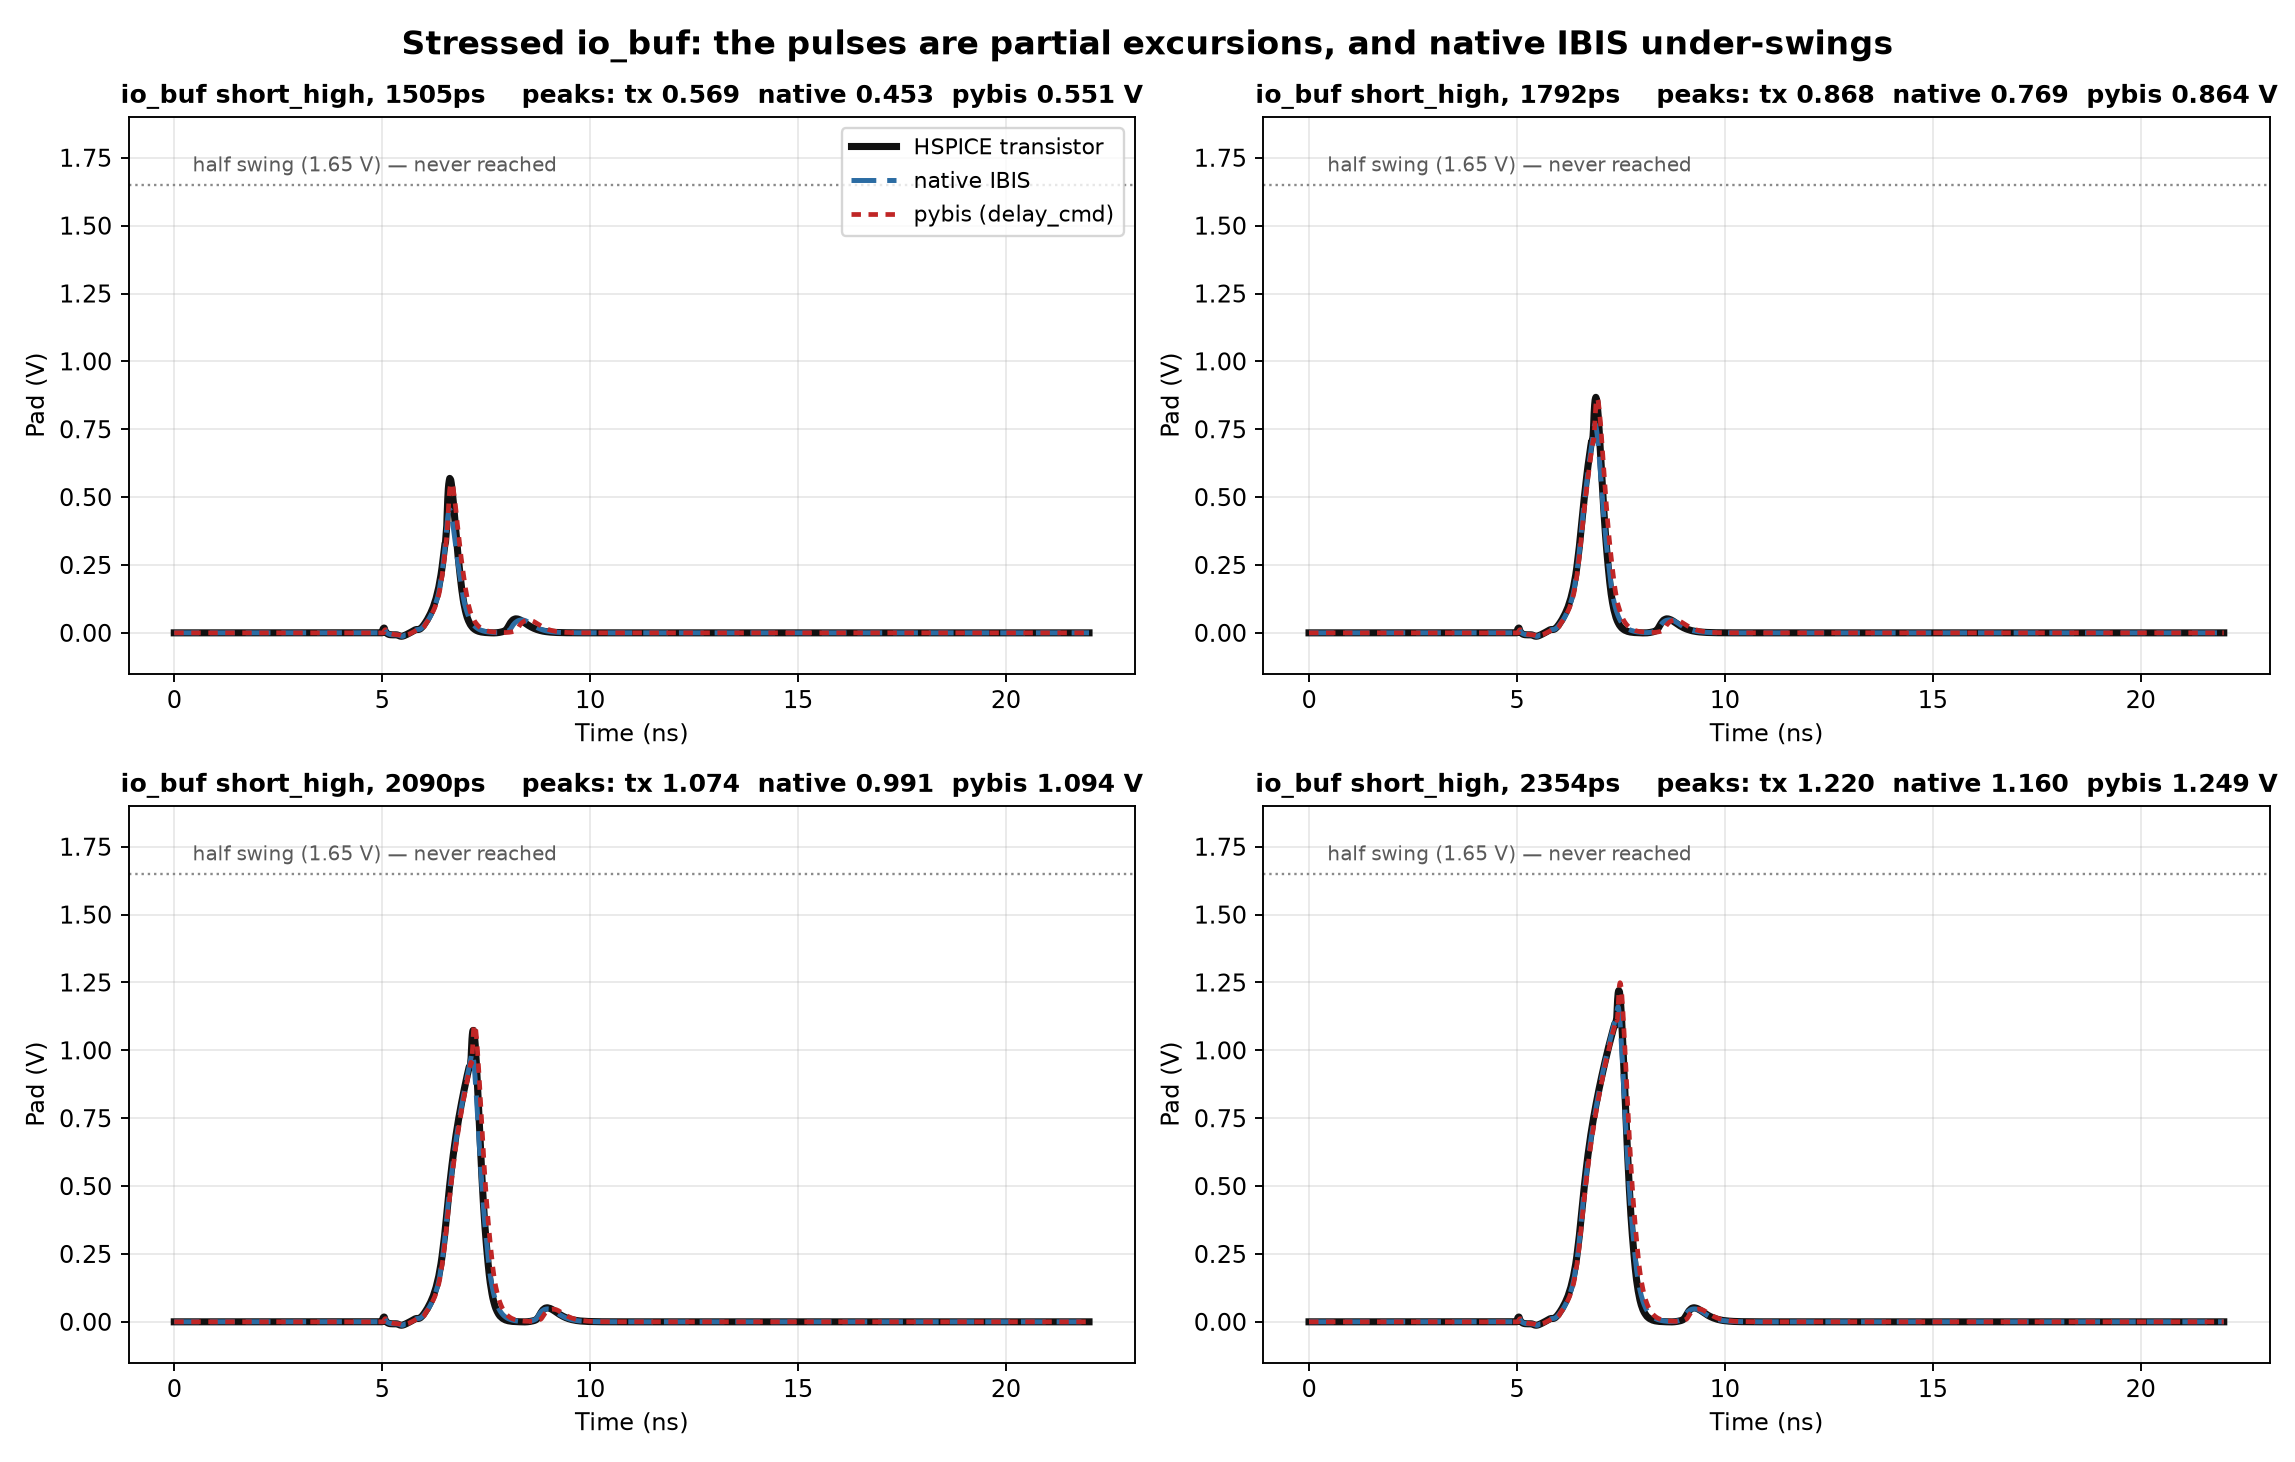
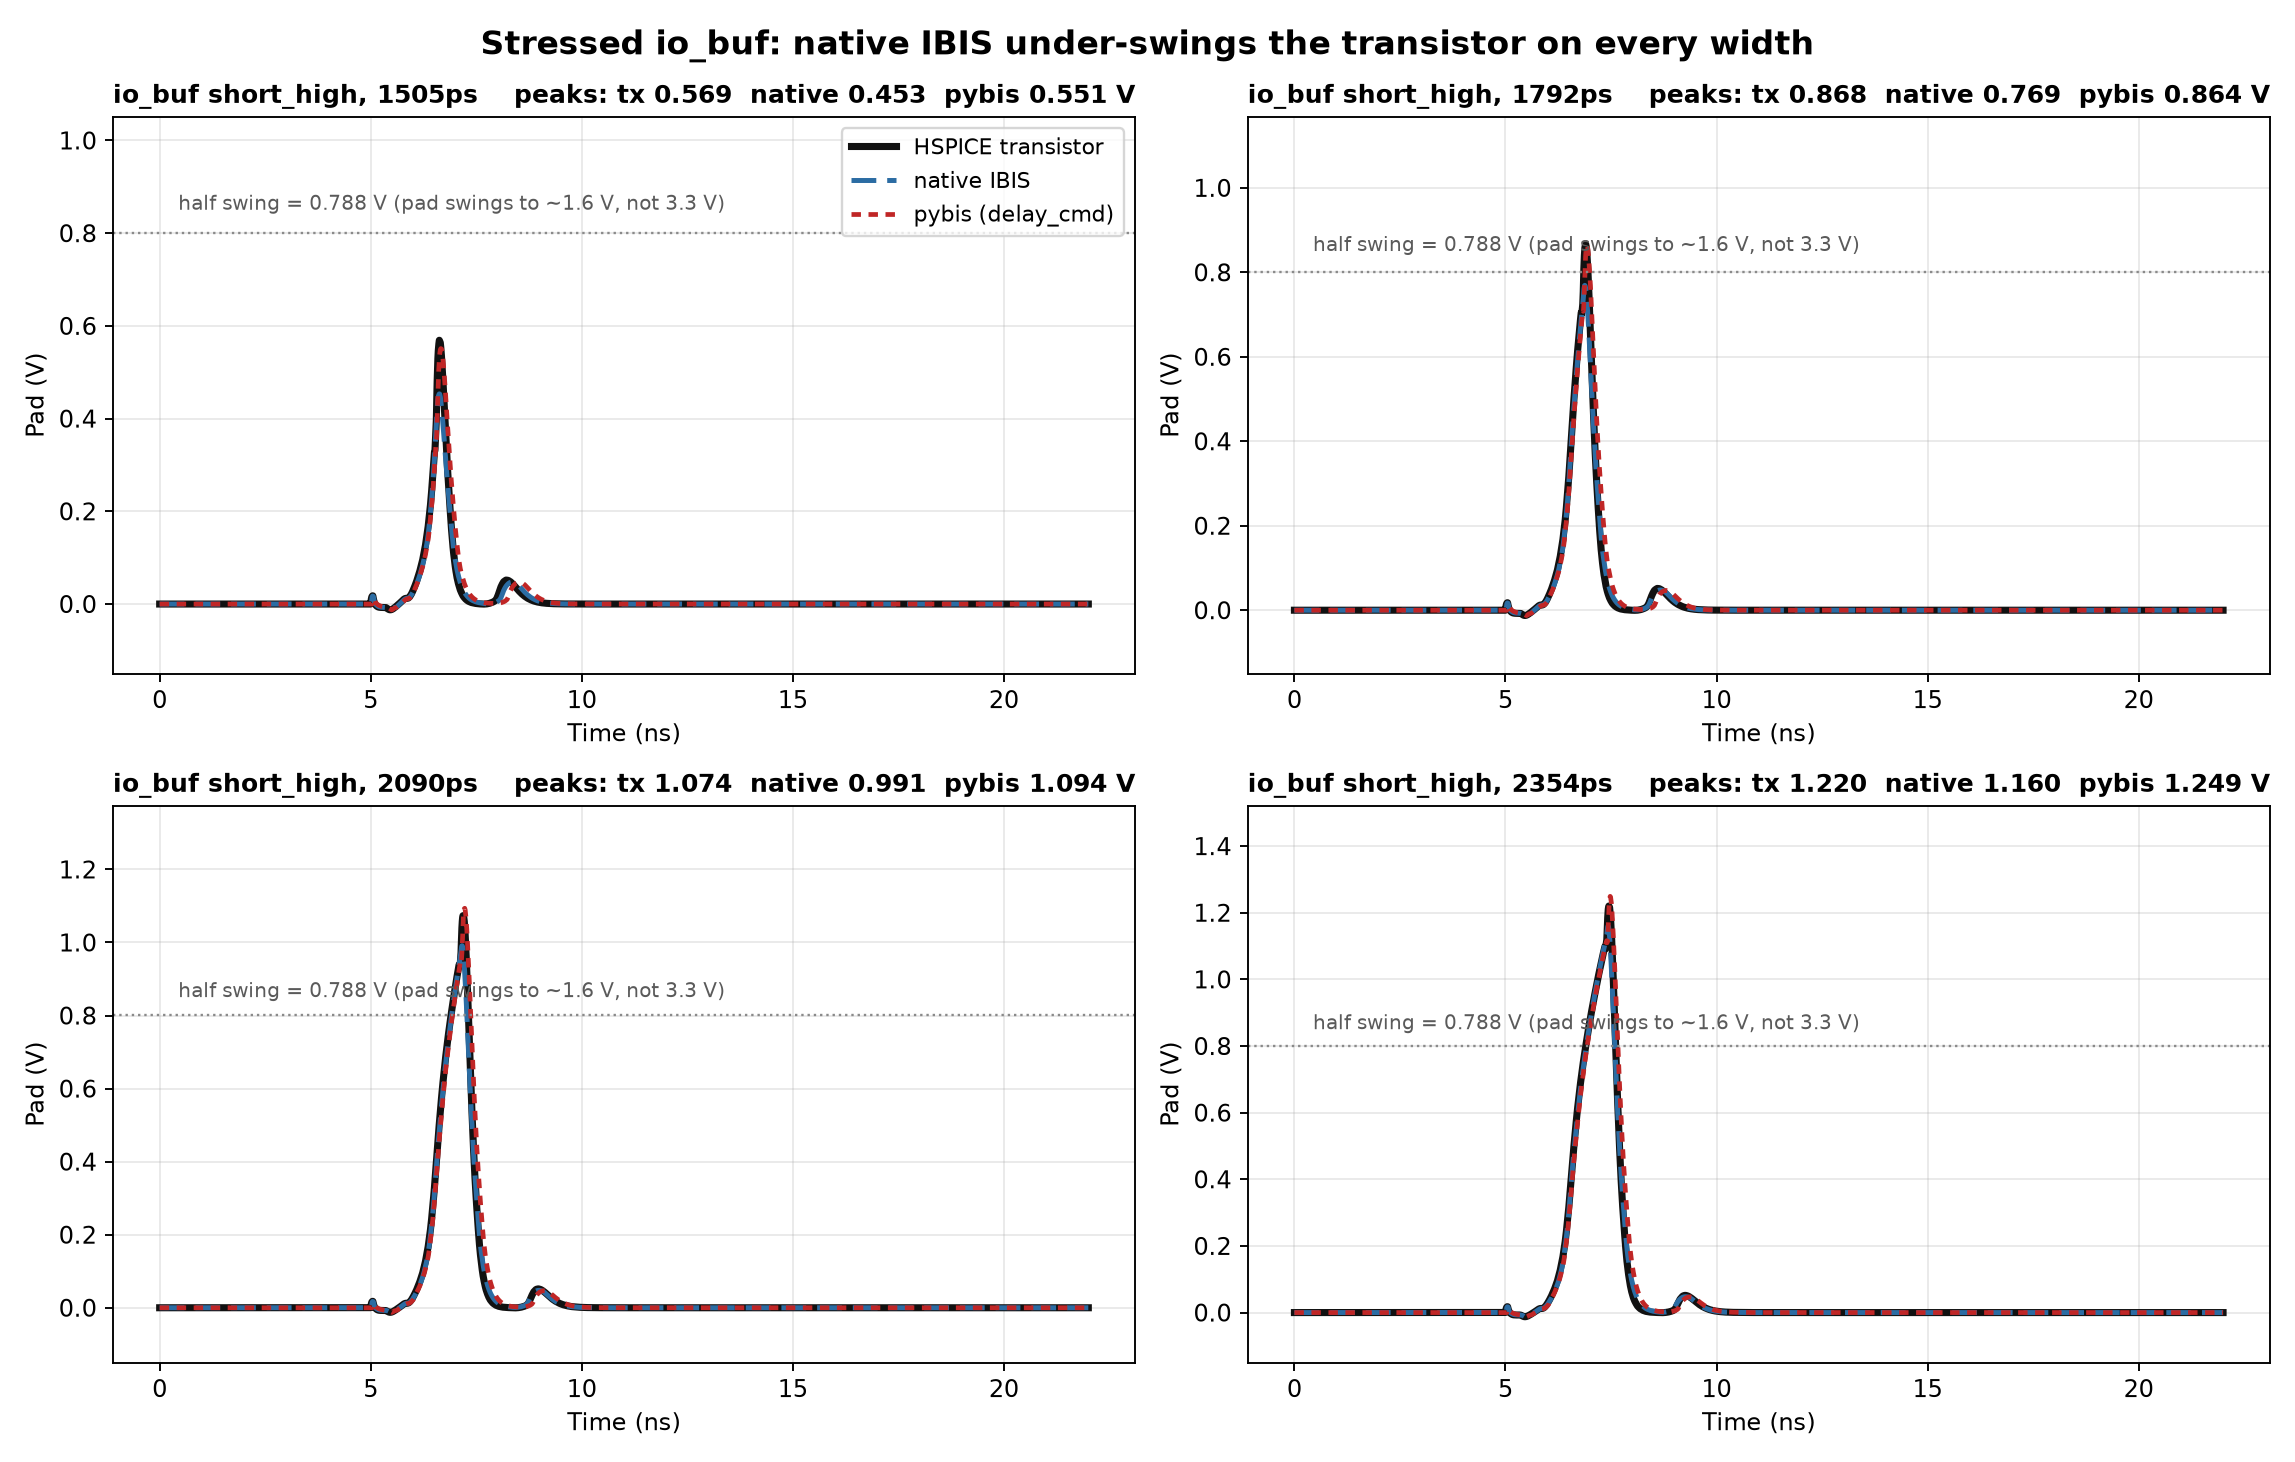
Correct the reference level: io_buf swings to ~1.6 V, not 3.3 V
I compared the stressed peaks against the 3.3 V supply and concluded none of them
reach half swing. Wrong reference. The 50 ohm load halves the supply, so io_buf
pad swing on this bench is 1.601 V (the full-swing transistor run goes -0.013 to
1.588 V) and half swing is 0.788 V, not 1.65 V.

Against the correct level the peaks are 36-76 percent of swing and six of nine DO
cross half swing. So the claim that a 50 percent crossing does not exist here was
wrong, and the stronger conclusion I drew from it -- that the timing measurement
is meaningless on this family -- does not hold. They are still partial
excursions, just far less extreme than I said.

What survives is the peak-amplitude finding, which is a direct trace-to-trace
comparison and does not depend on the reference: native IBIS is low on all nine
widths by 60-124 mV, pybis is within 3-29 mV and closer on 9 of 9.

Section 3 softened to match. The amplitude deficit is a plausible contributor to
the reported timing lead, not a measured one, and it has not been quantified on
defect B own cases.

diff --git a/scripts/plot_stress_shapes.py b/scripts/plot_stress_shapes.py
@@ -4,15 +4,17 @@
 Everything measured on the stress cases so far has been scalar -- a 50% crossing
 and an RMSE. That hides the shape, and the shape turns out to matter, because
 these truncated pulses are *partial excursions*: on io_buf short_high the pad
-peaks at 0.57-1.22 V out of a 3.3 V rail, so none of them reach the half-swing
-level a "50% crossing" would normally be measured against.
+peaks at 0.57-1.22 V, which is 36-76% of the swing it actually reaches into this
+load. Note the reference -- the pad swings to ~1.6 V into 50 ohm, not to the
+3.3 V supply, because the 50 ohm divider halves it. Comparing against 3.3 V (as
+I first did) makes these look far more truncated than they are.
 
 Plotting them shows something the scalars never surfaced: **native IBIS
 systematically under-swings the transistor** on every width, by 60-124 mV, while
 pybis tracks the peak to within 3-29 mV. That matters for how defect B is stated,
 because a waveform that peaks lower reaches any fixed threshold at a different
-time -- so part of "native is early, we are late" is an amplitude difference
-being read as a timing difference.
+time, so part of the reported timing difference may be an amplitude difference
+read as one. That contribution is plausible but has not been quantified.
 
     py -3.14 scripts/plot_stress_shapes.py
 """
@@ -34,7 +36,7 @@ import numpy as np  # noqa: E402
 
 SRC = ROOT / "results" / "stress_method_matrix_2026-08-20" / "delay_cmd" / "waveforms"
 OUT = ROOT / "results" / "stress_shapes_2026-09-03"
-SUPPLY = 3.3
+SUPPLY = 1.601  # io_buf pad swing into 50 ohm, not the 3.3 V supply
 TX, NAT, PYB = "#111111", "#2B6CA3", "#C02626"
 
 
@@ -61,7 +63,7 @@ def main() -> int:
         ax.plot(t, py, color=PYB, lw=2.0, ls=(0, (2, 1.6)), label="pybis (delay_cmd)")
         ax.axhline(SUPPLY / 2, color="#8A8A8A", lw=1.0, ls=":")
         ax.text(t[0] + 0.02 * (t[-1] - t[0]), SUPPLY / 2 + 0.05,
-                "half swing (1.65 V) — never reached", fontsize=8.5, color="#5A5A5A")
+                "half swing = 0.788 V (pad swings to ~1.6 V, not 3.3 V)", fontsize=8.5, color="#5A5A5A")
         ax.set_title(f"io_buf short_high, {width}    "
                      f"peaks: tx {si.max():.3f}  native {hs.max():.3f}  pybis {py.max():.3f} V",
                      fontsize=10.5, fontweight="bold")
@@ -70,7 +72,7 @@ def main() -> int:
         ax.set_xlabel("Time (ns)", fontsize=10)
         ax.grid(alpha=0.28)
     axes[0, 0].legend(fontsize=9.5, loc="upper right")
-    fig.suptitle("Stressed io_buf: the pulses are partial excursions, and native IBIS under-swings",
+    fig.suptitle("Stressed io_buf: native IBIS under-swings the transistor on every width",
                  fontsize=14, fontweight="bold")
     fig.tight_layout()
     fig.savefig(OUT / "stress_shapes.png", dpi=170)

diff --git a/results/stress_shapes_2026-09-03/FINDINGS.md b/results/stress_shapes_2026-09-03/FINDINGS.md
@@ -8,23 +8,37 @@ Source: `results/stress_method_matrix_2026-08-20/delay_cmd/waveforms/`,
 io_buf `short_high`, nine pulse widths, columns `silicon_pad` (HSPICE
 transistor), `hspice_pad` (native IBIS), `pybis_pad` (our delay_cmd build).
 
-## 1. The stressed pulses are partial excursions, not transitions
+## CORRECTION to section 1 (2026-09-03, same day)
 
-| width | transistor peak | fraction of the 3.3 V rail |
-|---|---:|---:|
-| 1505 ps | 0.569 V | 17% |
-| 1792 ps | 0.868 V | 26% |
-| 2090 ps | 1.074 V | 33% |
-| 2354 ps | 1.220 V | 37% |
+I first wrote that these pulses "never reach half swing", comparing their peaks
+against the **3.3 V supply**. That is the wrong reference. **io_buf's pad only
+swings to ~1.6 V into the 50 ohm + 2 pF load** -- the 50 ohm divider halves the
+supply. Measured from the same bench, the full-swing transistor run goes
+-0.013 to 1.588 V, so full swing is 1.601 V and the half-swing level is 0.788 V,
+not 1.65 V.
 
-**None of them reach half swing (1.65 V).** The pad rises to a partial peak and
-is pulled back — these are spikes, not edges.
+Against the correct reference:
 
-That has a direct consequence for how the timing defect is stated. A "falling 50%
-crossing" presumes the waveform *has* a 50% crossing of the full swing. On these
-cases it does not, so whatever level the study's crossing was measured against,
-it was not half of the rail. Any timing number on this family needs its reference
-level stated explicitly before it can be compared with a full-swing number.
+| width | transistor peak | % of the 1.601 V swing | crosses half? |
+|---|---:|---:|---:|
+| 1505 ps | 0.569 V | 36% | no |
+| 1634 ps | 0.722 V | 45% | no |
+| 1666 ps | 0.755 V | 47% | no |
+| 1792 ps | 0.868 V | 54% | **yes** |
+| 1853 ps | 0.914 V | 57% | **yes** |
+| 1989 ps | 1.009 V | 63% | **yes** |
+| 2090 ps | 1.074 V | 67% | **yes** |
+| 2226 ps | 1.154 V | 72% | **yes** |
+| 2354 ps | 1.220 V | 76% | **yes** |
+
+**Six of nine do cross half swing.** So the claim that a 50% crossing does not
+exist on this family was wrong, and the stronger conclusion drawn from it -- that
+the timing measurement is meaningless here -- does not hold. These are still
+partial excursions (36-76% of swing rather than 100%), but a half-swing crossing
+is well defined for most of them.
+
+What survives unchanged is section 2 below: the peak-amplitude comparison is a
+direct trace-to-trace measurement and does not depend on the reference level.
 
 ## 2. Native IBIS systematically under-swings; pybis does not
 
@@ -56,8 +70,10 @@ gets shorter.
 Defect B is stated as "we are 69–99 ps late, native is 5–26 ps early", both
 against the transistor. If native's waveform peaks 60–124 mV low, then it reaches
 any fixed threshold at a different time than a correctly-scaled waveform would —
-so **part of "native is early" is an amplitude deficit being read as a timing
-lead**, not native genuinely anticipating the transistor.
+so **part of "native is early" may be an amplitude deficit read as a timing
+lead** rather than native genuinely anticipating the transistor. This is a
+plausible contribution, not a measured one -- it has not been quantified on
+defect B's own cases.
 
 That does not make the timing shift disappear. It does mean the headline number
 mixes two effects, and the honest statement is either
